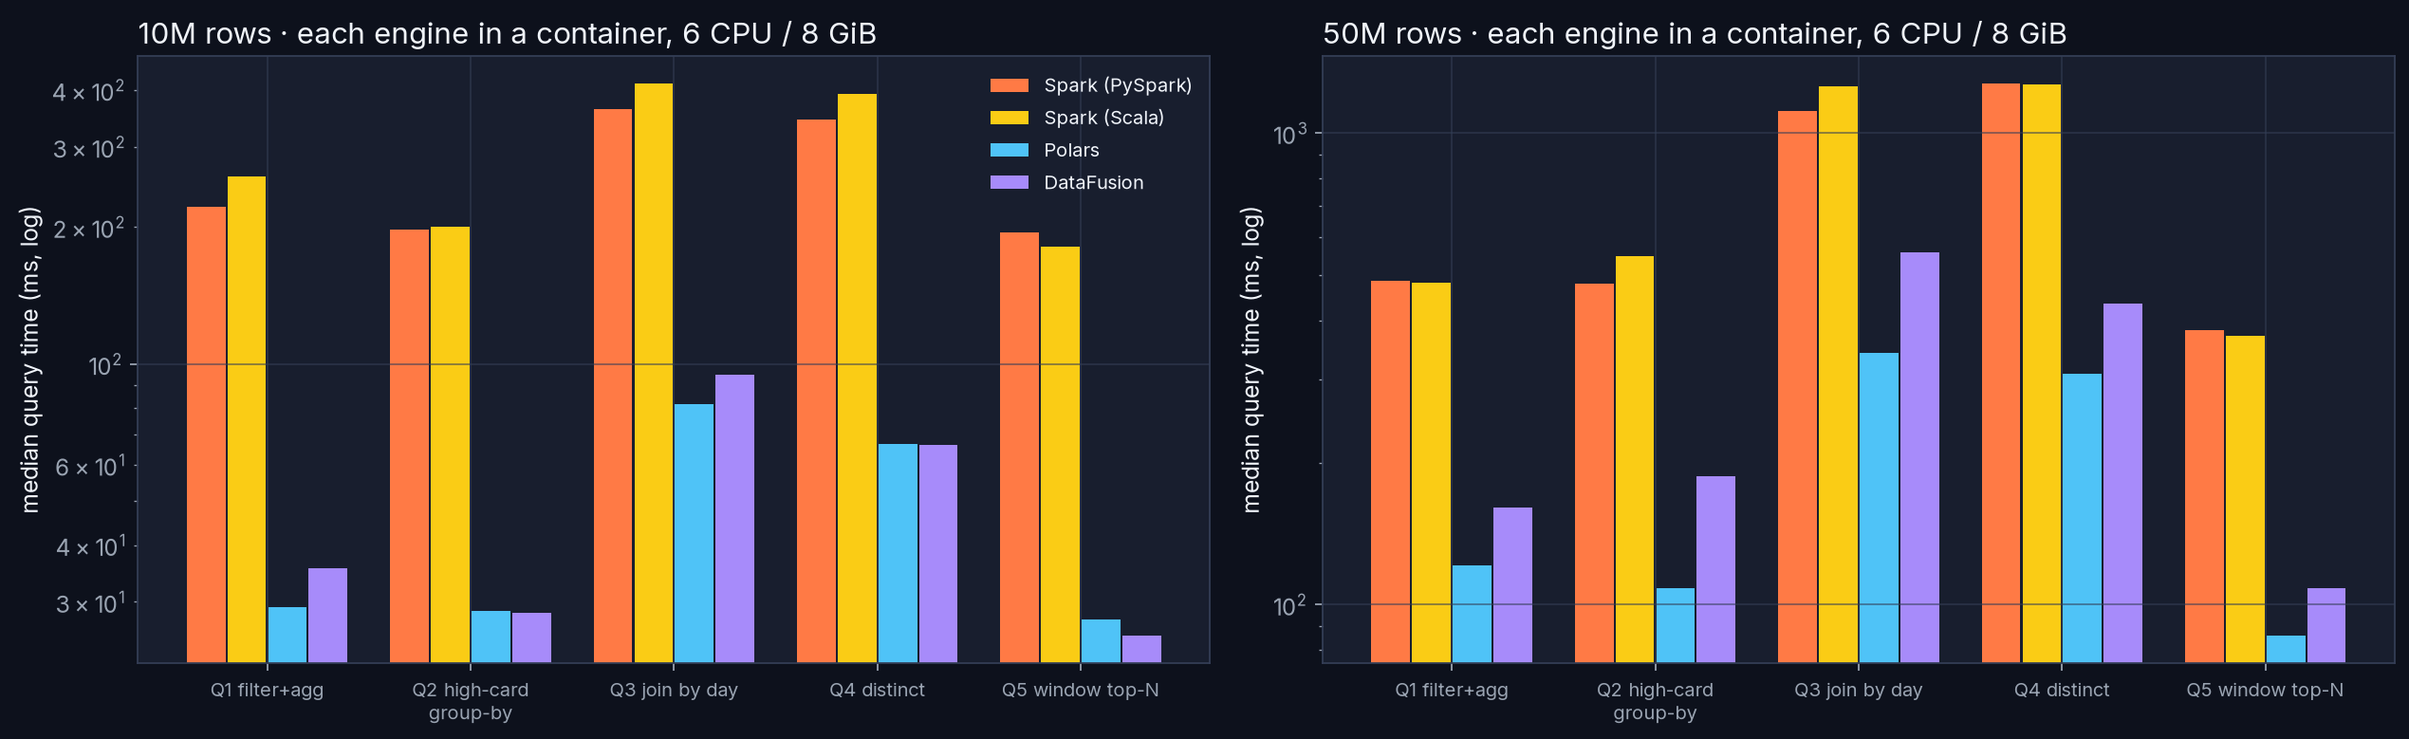
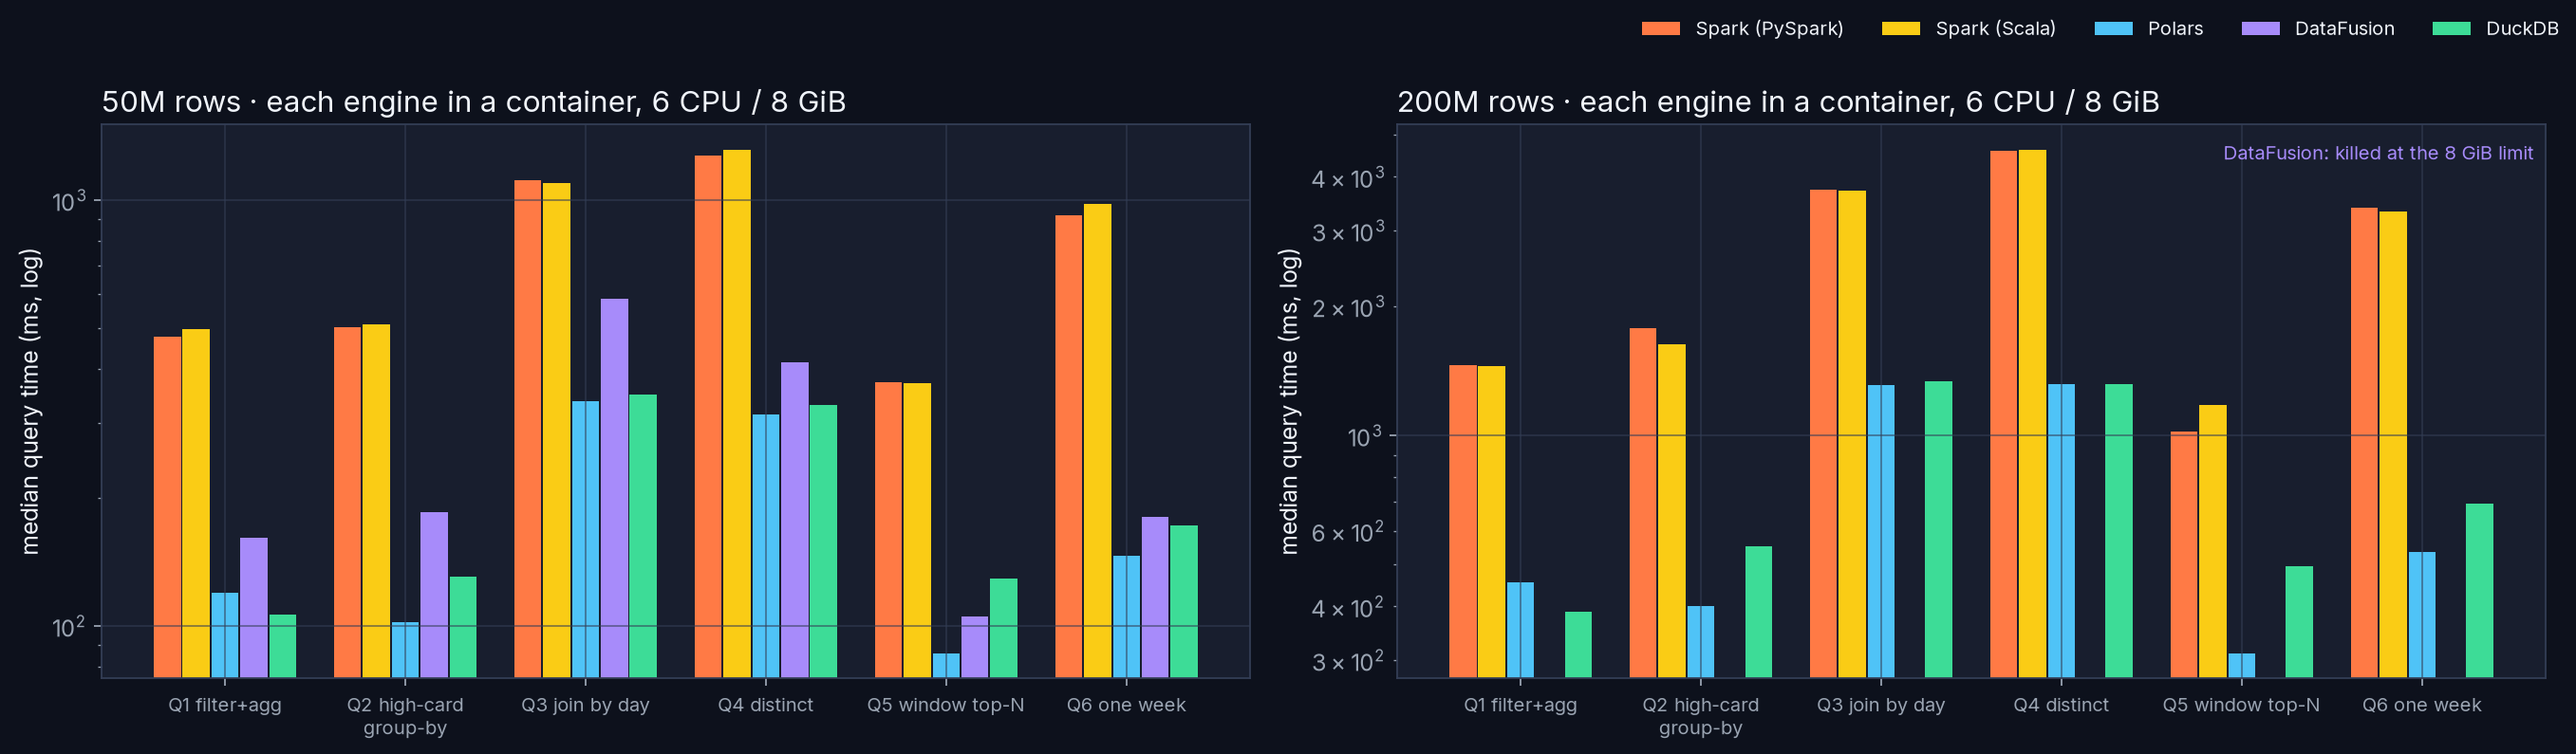
docs: charts for scaling to 200M rows and Iceberg reads; DuckDB in every chart
query_times now shows 50M and 200M rows with six queries; scaling.png plots the sum of query
medians and peak memory against rows, marking the killed runs; iceberg.png compares a folder
of Parquet with the day-partitioned Iceberg table, including Spark's NTZ-literal Q6.

diff --git a/viz/make_charts.py b/viz/make_charts.py
@@ -8,31 +8,37 @@ from mfviz import HEX, IMG, RESULTS, mpl_setup
 plt = mpl_setup()
 S = json.loads((RESULTS / "summary.json").read_text())
 E = S["engines"]
-Q = ["q1_filter_agg", "q2_high_card_groupby", "q3_join_daily", "q4_distinct", "q5_window_topn"]
-QL = ["Q1 filter+agg", "Q2 high-card\ngroup-by", "Q3 join by day", "Q4 distinct", "Q5 window top-N"]
+F = S.get("failures", {})
+Q = ["q1_filter_agg", "q2_high_card_groupby", "q3_join_daily", "q4_distinct", "q5_window_topn", "q6_one_week"]
+QL = ["Q1 filter+agg", "Q2 high-card\ngroup-by", "Q3 join by day", "Q4 distinct", "Q5 window top-N", "Q6 one week"]
 ENG = [("pyspark", "Spark (PySpark)", HEX["ORANGE"]), ("scala", "Spark (Scala)", HEX["YELLOW"]),
-       ("polars", "Polars", HEX["ICE"]), ("datafusion", "DataFusion", HEX["PURPLE"])]
+       ("polars", "Polars", HEX["ICE"]), ("datafusion", "DataFusion", HEX["PURPLE"]), ("duckdb", "DuckDB", HEX["GREEN"])]
+SIZES = S["sizes"]
+ROWS_M = {s: int(s.rstrip("m")) for s in SIZES}
 
 
 def query_times():
-    fig, axes = plt.subplots(1, 2, figsize=(16, 5))
-    for a, size in zip(axes, ("10m", "50m")):
+    fig, axes = plt.subplots(1, 2, figsize=(17, 5))
+    for a, size in zip(axes, ("50m", "200m")):
         for j, (e, lab, col) in enumerate(ENG):
             r = E.get(f"{e}_{size}")
+            xs = [i + (j - 2) * 0.16 for i in range(len(Q))]
             if not r:
+                if f"{e}_{size}" in F:
+                    a.text(0.99, 0.97, f"{lab}: killed at the 8 GiB limit", transform=a.transAxes, fontsize=9, color=col, ha="right", va="top")
                 continue
-            xs = [i + (j - 1.5) * 0.2 for i in range(len(Q))]
             vals = [r["queries"][q]["median_s"] * 1000 for q in Q]
-            a.bar(xs, vals, 0.19, color=col, label=lab)
+            a.bar(xs, vals, 0.15, color=col, label=lab)
         a.set_yscale("log"); a.set_xticks(range(len(Q)), QL, fontsize=9)
         a.set_ylabel("median query time (ms, log)")
         a.set_title(f"{size.upper().replace('M', 'M rows')} · each engine in a container, 6 CPU / 8 GiB", loc="left")
-    axes[0].legend(fontsize=9)
-    fig.tight_layout(); fig.savefig(IMG / "query_times.png"); plt.close(fig)
+    h, lab = axes[0].get_legend_handles_labels()
+    fig.legend(h, lab, loc="upper right", ncol=5, fontsize=9, frameon=False)
+    fig.tight_layout(rect=(0, 0, 1, 0.93)); fig.savefig(IMG / "query_times.png"); plt.close(fig)
 
 
 def overhead():
-    fig, (a1, a2) = plt.subplots(1, 2, figsize=(15, 4.6))
+    fig, (a1, a2) = plt.subplots(1, 2, figsize=(16, 4.6))
     for j, size in enumerate(("10m", "50m")):
         names = [lab for _, lab, _ in ENG]
         xs = [i + (j - 0.5) * 0.38 for i in range(len(ENG))]
@@ -67,8 +73,67 @@ def udf():
     fig.tight_layout(); fig.savefig(IMG / "udf.png"); plt.close(fig)
 
 
+def scaling():
+    """Sum of the six query medians and peak memory from 10M to 200M rows; failed runs marked."""
+    fig, (a1, a2) = plt.subplots(1, 2, figsize=(16, 5.2))
+    for e, lab, col in ENG:
+        xs, tot, mem = [], [], []
+        for s in SIZES:
+            r = E.get(f"{e}_{s}")
+            if r:
+                xs.append(ROWS_M[s]); tot.append(r["sql_total_median_s"]); mem.append(r["peak_mem_mib"] / 1024)
+            elif f"{e}_{s}" in F:
+                f = F[f"{e}_{s}"]
+                a2.scatter([ROWS_M[s]], [(f["peak_mem_mib"] or 0) / 1024], marker="X", s=140, color=col, zorder=5)
+                a1.annotate(f"{lab}: failed\n(exit {f['exit_code']})", (ROWS_M[s], 0.3), color=col, fontsize=9, ha="center")
+        a1.plot(xs, tot, "o-", color=col, label=lab, lw=2)
+        a2.plot(xs, mem, "o-", color=col, label=lab, lw=2)
+        if xs:
+            a1.text(xs[-1] * 1.06, tot[-1], f"{tot[-1]:.1f} s", color=col, fontsize=9, va="center")
+    for a in (a1, a2):
+        a.set_xscale("log"); a.set_xticks([ROWS_M[s] for s in SIZES], [f"{ROWS_M[s]}M" for s in SIZES])
+        a.set_xlabel("rows in calls"); a.set_xlim(8, 300)
+    a1.set_yscale("log"); a1.set_ylabel("sum of six query medians (s, log)")
+    a1.set_title("Query time as data grows · each engine in a container, 6 CPU / 8 GiB", loc="left", fontsize=11)
+    a2.axhline(8, color=HEX["RED"], ls="--", lw=1); a2.text(9, 7.75, "container limit 8 GiB", color=HEX["RED"], fontsize=9, va="top")
+    a2.set_ylabel("GiB"); a2.set_title("Peak container memory (cgroup memory.peak); X = run failed", loc="left", fontsize=11)
+    a1.legend(fontsize=9)
+    fig.tight_layout(); fig.savefig(IMG / "scaling.png"); plt.close(fig)
+
+
+def iceberg():
+    """The same queries on plain Parquet and on the Iceberg table (partitioned by day)."""
+    sizes = [s for s in SIZES if any(f"iceberg_{e}_{s}" in E for e, _, _ in ENG)]
+    eng = [e for e in ENG if e[0] != "scala"]
+    fig, axes = plt.subplots(1, 2 * len(sizes), figsize=(8.5 * len(sizes), 5), gridspec_kw={"width_ratios": [4, 5] * len(sizes)})
+    for k, s in enumerate(sizes):
+        label = s.upper().replace("M", "M rows")
+        for a, qs, title in ((axes[2 * k], Q[:5], f"Q1–Q5 sum (full scans), {label}"),
+                             (axes[2 * k + 1], Q[5:], f"Q6 one week of 30 days, {label}")):
+            cats = eng + ([("pyspark", "Spark, NTZ\nliteral", HEX["ORANGE"])] if qs == Q[5:] else [])
+            for i, (e, lab, col) in enumerate(cats):
+                qq = ["q6_one_week_ntz"] if "NTZ" in lab else qs
+                for j, (pre, alpha) in enumerate((("", 0.45), ("iceberg_", 1.0))):
+                    x = i + (j - 0.5) * 0.38
+                    r = E.get(f"{pre}{e}_{s}")
+                    if not r:
+                        if f"{pre}{e}_{s}" in F:
+                            a.text(x, 0.02 * a.get_ylim()[1], "killed at 8 GiB", ha="center", va="bottom", fontsize=8.5, color=HEX["RED"], rotation=90)
+                        continue
+                    v = sum(r["queries"][q]["median_s"] for q in qq)
+                    a.bar(x, v, 0.36, color=col, alpha=alpha)
+                    a.text(x, v * 1.01, f"{v:.2f}", ha="center", va="bottom", fontsize=7.5)
+            a.set_xticks(range(len(cats)), [c[1] for c in cats], fontsize=8.5)
+            a.set_title(title, loc="left", fontsize=10)
+            a.set_ylabel("median seconds")
+            a.margins(y=0.12)
+    fig.suptitle("Light: folder of Parquet files · solid: Iceberg table partitioned by day(start_ts) · each engine in a 6 CPU / 8 GiB container",
+                 x=0.01, ha="left", fontsize=11, color=HEX["GREY"])
+    fig.tight_layout(); fig.savefig(IMG / "iceberg.png"); plt.close(fig)
+
+
 if __name__ == "__main__":
     IMG.mkdir(parents=True, exist_ok=True)
-    for f in (query_times, overhead, udf):
+    for f in (query_times, overhead, udf, scaling, iceberg):
         f()
     print("charts written")
